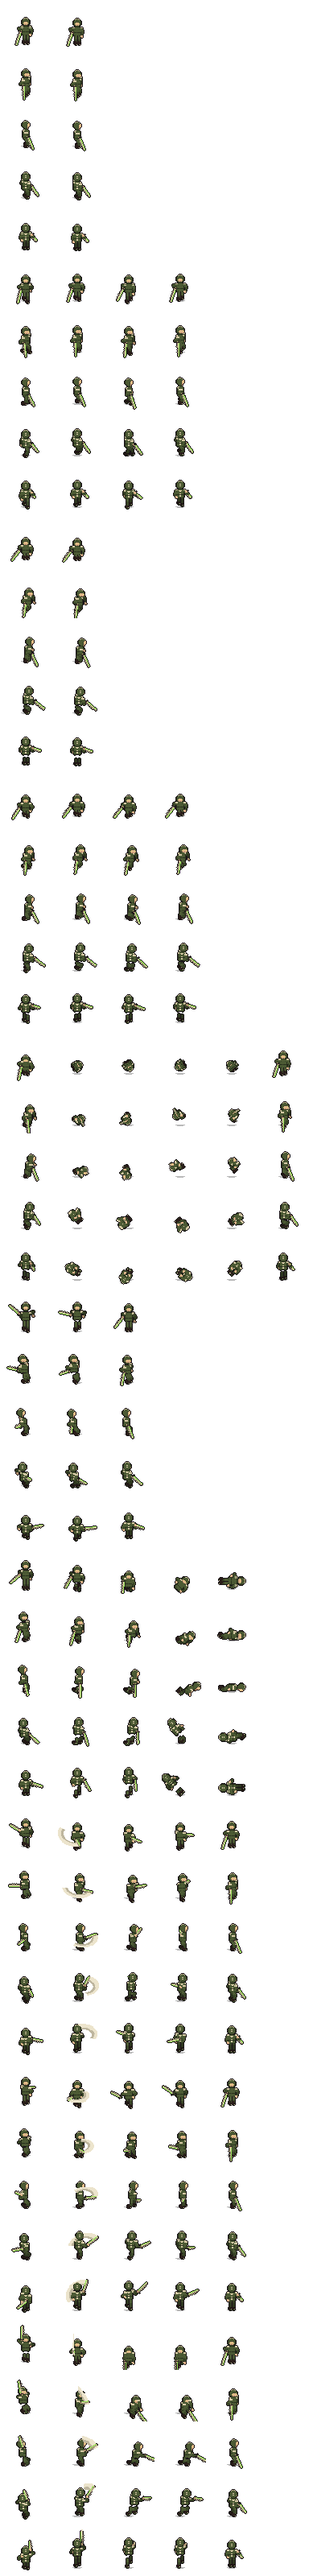
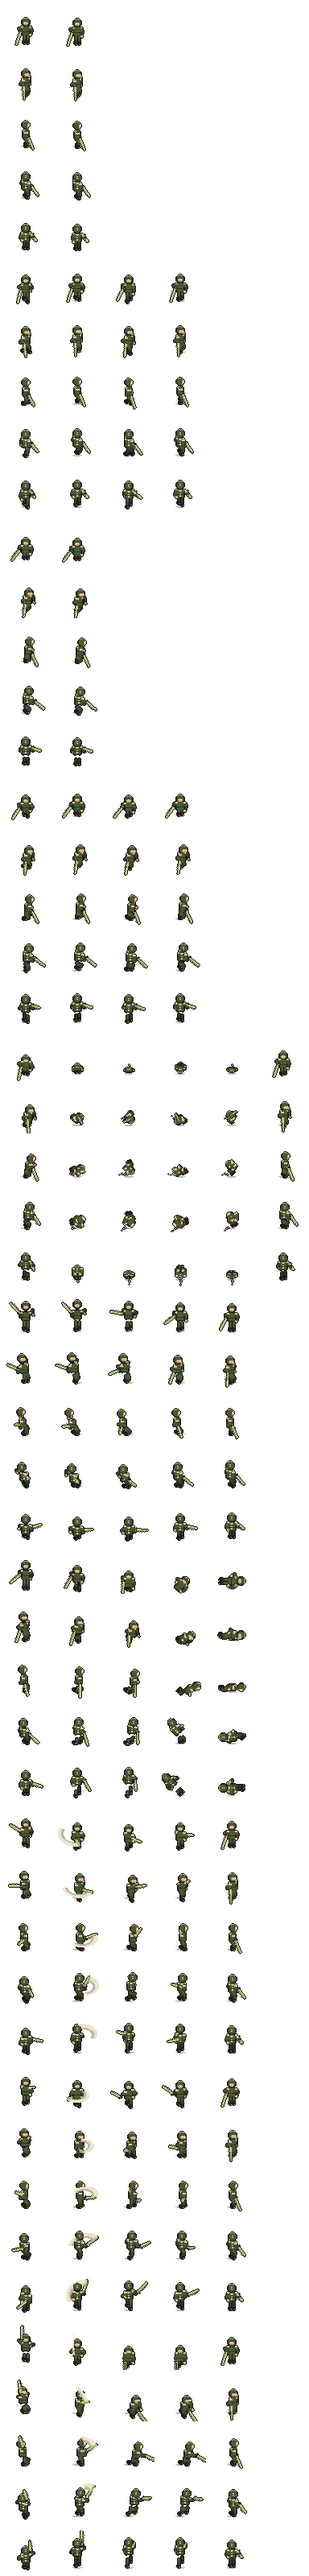
피격 5장·0.45초·맞는 순간 멈칫, 구르기를 바닥에 붙여 굴리기(아래·위는 고꾸라짐, 흙먼지)
Claude-Session: https://claude.ai/code/session_01Vq3FZ4fVsT8bviQCrnkBFu

diff --git a/src/entities/Player.js b/src/entities/Player.js
@@ -124,7 +124,7 @@ export class Player extends window.Phaser.Physics.Arcade.Sprite {
     }
     this.stats.takeDamage(damage);
     this.invulnMs = this.data_.hitInvulnMs;
-    this.hitstopMs = 0;
+    this.hitstopMs = this.data_.hurtFreezeMs ?? 0; // 맞는 순간 잠깐 멈칫 (충격이 눈에 들어오게)
     this.queued = null;
     const dx = this.x - fromX, dy = this.y - fromY, d = Math.hypot(dx, dy) || 1;
     this.knock = { x: dx / d, y: dy / d };

diff --git a/tools/art/pixel_hero.py b/tools/art/pixel_hero.py
@@ -359,7 +359,8 @@ def P(**k):
                 fl=(0, 0, 0), fr=(0, 0, 0),          # 왼발·오른발 위치 조정 (x, y앞, z위)
                 off=(0, 0, 0),                        # 왼손(빈손) 위치 조정
                 w=dict(a=40, e=-55, r=3, z=0),        # 칼: 바라보는 방향 기준 각도 a, 위로 든 각도 e, 어깨에서 손까지 r, 손 높이 z
-                smear=None, weapon=True, rot=0, tuck=False)
+                smear=None, weapon=True, rot=0, tuck=False,
+                tumble=(False, 1.0), bounce=0, dust=0)            # 구르기: 앞뒤로 고꾸라짐(뒤집기, 세로 납작), 튀기, 흙먼지 크기
     base.update(k)
     return base
 
@@ -383,13 +384,17 @@ COMMON = {
            P(crouch=3, lean=22, head=1, fl=(0, 0, 1), fr=(0, 0, 0), bob=-1, off=(0, 3, 1), w=W(55, -35, 4))],
  # 구르기: 숙임 → 공처럼 말아 넣고 실제로 한 바퀴 회전 → 펴며 일어남
  'roll': [P(crouch=3, lean=30, head=2, fl=(0, 2, 0), off=(0, 4, 2), w=W(30, -60, 2)),
-          P(tuck=True, rot=60, weapon=False), P(tuck=True, rot=150, weapon=False),
-          P(tuck=True, rot=240, weapon=False), P(tuck=True, rot=320, weapon=False),
+          P(tuck=True, rot=60, tumble=(False, 0.85), bounce=0, dust=1, weapon=False),
+          P(tuck=True, rot=150, tumble=(False, 0.45), bounce=1, dust=2, weapon=False),
+          P(tuck=True, rot=240, tumble=(True, 0.85), bounce=0, dust=3, weapon=False),
+          P(tuck=True, rot=320, tumble=(True, 0.45), bounce=1, dust=2, weapon=False),
           P(crouch=2, lean=15, head=1, fr=(0, 2, 0), off=(0, 2, 0), w=W(40, -55, 3))],
  # 피격: 머리·상체가 뒤로 확 젖혀지고 팔이 튕김 → 뒷걸음 → 버팀
- 'hurt': [P(lean=-28, head=-1, lunge=-1, fr=(0, -2, 0), off=(-3, -2, 5), w=W(115, 25, 4, 2)),
-          P(lean=-20, crouch=2, lunge=-3, fl=(0, -4, 0), off=(-2, -1, 3), w=W(95, 10, 4)),
-          P(lean=-6, crouch=1, lunge=-2, off=(-1, 0, 0), w=W(60, -35, 3))],
+ 'hurt': [P(lean=-30, head=-2, lunge=-1, fr=(0, -2, 0), off=(-3, -2, 6), w=W(120, 30, 4, 3)),      # 충격: 고개·상체 확 젖힘, 팔 튕김
+          P(lean=-34, head=-2, lunge=-3, crouch=1, fl=(0, -3, 0), off=(-3, -3, 5), w=W(125, 25, 4, 2)), # 밀려남
+          P(lean=-22, crouch=3, lunge=-4, fl=(0, -4, 0), fr=(0, -1, 0), off=(-2, -1, 2), w=W(100, 5, 4)), # 휘청 (무릎 꺾임)
+          P(lean=-8, crouch=2, lunge=-3, fl=(0, -3, 0), off=(-1, 1, 0), w=W(70, -25, 3)),           # 버팀
+          P(lean=-2, crouch=1, lunge=-2, w=W(50, -45, 3))],                                          # 자세 회복
  # 쓰러짐: 휘청 → 무릎 꿇음 → 칼 떨굼 → 앞으로 쓰러짐 → 누움
  'death': [P(lean=-15, head=-1, lunge=-1, w=W(70, -30, 3)),
            P(crouch=6, lean=10, head=1, fl=(0, -4, 0), fr=(0, 2, 0), w=W(90, -60, 3)),
@@ -665,9 +670,32 @@ def draw(outfit_key, weapon_key, view, pose):
     for _, _, fn in front: fn()
     if not w_behind: weapon()
 
-    if pose['rot']:
-        img = rotsprite(img, pose['rot'] if view not in ('up', 'upside') else -pose['rot'], (CX, FOOT_Y - 8 if pose['tuck'] else FOOT_Y - 2))
-        if not pose['tuck'] and pose['rot'] >= 90:
+    if pose['tuck']:
+        # 구르기 공: 옆·대각선은 화면 안에서 회전, 아래·위는 앞으로 고꾸라짐(뒤집기 + 세로 납작). 항상 바닥에 붙임
+        if view in ('down', 'up'):
+            bb = img.getbbox()
+            ball = img.crop(bb)
+            flip, sc = pose['tumble']
+            if flip: ball = ball.transpose(Image.Transpose.FLIP_TOP_BOTTOM)
+            ball = ball.resize((ball.width, max(3, round(ball.height * sc))), Image.NEAREST)
+        else:
+            r = rotsprite(img, pose['rot'], (CX, FOOT_Y - 8))
+            ball = r.crop(r.getbbox())
+        img = Image.new('RGBA', (F, F), (0, 0, 0, 0))
+        img.alpha_composite(ball, (CX - ball.width // 2, FOOT_Y + 1 - ball.height - pose['bounce']))
+        if pose['dust']:
+            # 흙먼지: 구르는 반대쪽(뒤) 바닥에
+            back = V.ground((0, -1, 0))
+            for i in range(pose['dust'] + 1):
+                dx = CX + back[0] * (6 + i * 3)
+                dy = FOOT_Y - 1 + back[1] * SQUASH * (6 + i * 3) - (i % 2)
+                c = (150, 138, 116, 230) if i < pose['dust'] else (120, 110, 94, 160)
+                for ox, oy in ((0, 0), (1, 0), (0, -1)) if i < 2 else ((0, 0),):
+                    X, Y = int(dx + ox), int(dy + oy)
+                    if 0 <= X < F and 0 <= Y < F and img.getpixel((X, Y))[3] == 0: img.putpixel((X, Y), c)
+    elif pose['rot']:
+        img = rotsprite(img, pose['rot'] if view not in ('up', 'upside') else -pose['rot'], (CX, FOOT_Y - 2))
+        if pose['rot'] >= 90:
             # 누운 몸은 바닥에 붙이기
             bb = img.getbbox()
             if bb:

diff --git a/docs/DESIGN.md b/docs/DESIGN.md
@@ -38,7 +38,7 @@
 - **풀숲·어두운 구역** (`entities/Bush.js`, 맵 `type=bush` / `type=dark` 사각형) — 풀숲은 길을 막지 않고 밑동 주변(±15, -14~+5)에 있으면 숨음, 플레이어보다 앞에 그려 몸을 가림; 어두운 구역은 위에 어둠을 덮고 적 시야 감소 → Godot Area2D + CanvasModulate/조명
 - **잡몹** (`entities/Mob.js`, `data/monsters.json` `ai: "mob"`) — 상태 `idle(어슬렁) → investigate(소리·흔적 확인, 도착 후 2초 두리번) → chase → windup → active(물어뜯기 돌진) → recovery`, `hurt`(넉백), `return`; 발견 시 `packAlertRadius` 안 무리도 발견; 시야에서 `loseSightMs` 동안 놓치면 마지막 위치 수색; 집에서 `leashRadius` 넘으면 포기; 머리 위 ?/!, 경계 막대; 처치 시 드롭, `respawnMs` 후 부활 → Godot `Mob.tscn` CharacterBody2D + 상태 머신
 - **크기 등급 충돌(구현분)** — 잡몹은 플레이어와 같은 판정(나무·물·서로·플레이어와 충돌), 보스는 밀리지 않고 잡몹을 밀어냄, 중형 보스 돌진은 잡몹에게 `mobChargeDamage` 피해 + 크게 밀어내고 계속 돌진
-- **플레이어 피격** (`entities/Player.js` `receiveHit`) — 구르기 무적 중이면 '회피!'(데미지 없음), 아니면 체력 감소 + `hurt` 상태(밀려남 `knockbackSpeed`, `hurtMs`, 콤보·예약 취소, 밀려나는 중 누른 구르기·공격은 예약했다가 끝나자마자 실행) + `hitInvulnMs` 동안 무적(깜빡임); 결과 `hit/dodged/ignored` 반환 → Godot Hurtbox Area2D + 같은 규칙
+- **플레이어 피격** (`entities/Player.js` `receiveHit`) — 구르기 무적 중이면 '회피!'(데미지 없음), 아니면 체력 감소 + 맞는 순간 `hurtFreezeMs` 멈칫 + `hurt` 상태(밀려남 `knockbackSpeed`, `hurtMs` 0.45초, 그림 5장, 콤보·예약 취소, 밀려나는 중 누른 구르기·공격은 예약했다가 끝나자마자 실행) + `hitInvulnMs` 동안 무적(깜빡임); 결과 `hit/dodged/ignored` 반환 → Godot Hurtbox Area2D + 같은 규칙
 - **쓰러짐** (`scenes/WorldScene.js` `onPlayerDeath`) — 체력 0이면 `dead`, `respawnDelayMs` 후 **수동·자동 중 더 최근 저장을 바로 불러옴**(저장 없으면 처음부터; 그 사이 얻은 것은 사라짐), 안내 문구 표시; 저장소를 못 쓰는 환경만 시작 지점 부활 → Godot 같은 흐름
 - **보스 처치 보상** (`scenes/WorldScene.js` `onBossDefeated`) — `drops` 목록의 재료를 쓰러진 자리 주변에 떨굼(주워야 획득), '토벌!' 알림, `respawnMs` 후 보스 재등장(반복 사냥용) → Godot 같은 흐름, 드롭 테이블은 Resource
 - **장비** (`entities/Player.js` `ownedWeapons`/`ownedArmors`/`equip`/`equipArmor`) — 무기는 가진 목록에서 1·2·3/Q로 교체, 갑옷 1칸; 갑옷은 `data/armors.json`(최대 체력 보너스, 겉모습 텍스처, 스킬) → Godot Equipment.gd + Resource

diff --git a/docs/ASSETS.md b/docs/ASSETS.md
@@ -92,4 +92,4 @@ Claude가 규격에 맞게 다듬고 `assets/LICENSES.md`에 기록합니다.
 - **크기:** 프레임 64×64(공격 궤적 여유), 캐릭터 키 약 30px(몸통·팔·다리 줄 복제로 키움), 발밑 y=52
 - **결과:** `assets/characters/hero_<갑옷>_<무기>.png` + `hero_px.json` — 실행 `python3 tools/art/pixel_hero.py`
 - 게임 기본 캐릭터. 예전 임시 캐릭터는 주소에 `?hero=old`
-- 모션: 대기·걷기(무릎 굽힘)·웅크려 대기/걷기·공격(무기별, 몸 비틀기·내딛기)·구르기 6(공처럼 말아 실제 회전, RotSprite식 회전)·피격 3(상체 젖힘·팔 튕김·뒷걸음)·쓰러짐 5
+- 모션: 대기·걷기(무릎 굽힘)·웅크려 대기/걷기·공격(무기별, 몸 비틀기·내딛기)·구르기 6(공처럼 말아 바닥에 붙여 굴림: 옆·대각선은 회전, 아래·위는 고꾸라짐, 살짝 튐, 흙먼지)·피격 5(충격·밀려남·휘청·버팀·회복)·쓰러짐 5

diff --git a/docs/CONCEPT.md b/docs/CONCEPT.md
@@ -56,8 +56,8 @@
 | 대기, 걷기 | ✅ 2·4장 | — |
 | 웅크려 대기·걷기(스닉) | ✅ 2·4장 | — |
 | 한손검 3연타 / 대검 2연타 | ✅ 5장 / 6장 (예비동작·잔상·타격·마무리) | — |
-| 구르기 | ✅ 6장 (공처럼 말아 회전) | — |
-| 피격 | ✅ 3장 (젖힘·튕김·뒷걸음) | — |
+| 구르기 | ✅ 6장 (바닥에 붙어 굴러감, 흙먼지) | — |
+| 피격 | ✅ 5장 (충격 멈칫·밀려남·휘청·버팀·회복) | — |
 | 쓰러짐 | ✅ 5장 | — |
 | 방패 들기·막기 | ⬜ | 막기(가드) 시스템 |
 | 활 쏘기 | ⬜ | 원거리 공격 |
